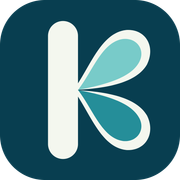
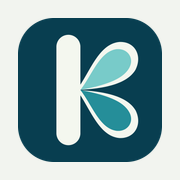
feat(web): harden PWA offline support, rebased onto master role routes
Rebase pwa-offline-hardening onto origin/master (PR #64 role-split PWA)
and resolve the manifest/layout/icon conflicts per category:

- UI kept from master: shared <Nav />, BaseLayout showNav + manifestPath
  props, per-role pages (/patient, /bhw) and their per-role manifests,
  Kasigla branding, and the mobile-web-app-capable meta.
- PWA kept/hardened from this branch: inline service-worker registration
  of /offline-worker.js (replacing master's register-sw.ts -> /sw.js),
  the hardened install crawl + runtime fetch strategy, /api bypass,
  offline.html fallback, and apple-touch-icon.
- Service worker (offline-worker.js) bumped to alaga-shell-v3 and its
  install crawl generalized from the single "/" route to all six real
  routes (/, /choose, /patient, /bhw, /about, /offline) using the same
  attribute regex + cacheAsset logic, so the HealthHub island on the
  role routes precaches its hydration chunks and works on a cold offline
  load. Seed list now covers the three manifests, all icons, apple-touch
  and offline fallback. Dead /page route removed.
- Icon set reconciled to one coherent set: kept this branch's hardened
  icon contents under master's filenames (icon-192, icon-512,
  maskable-512); removed the orphan icon-maskable-512.png and updated the
  default manifest src to /icons/maskable-512.png so every manifest
  (default + per-role) resolves to a real file.
- Removed now-unused public/sw.js and src/scripts/register-sw.ts so there
[…]

diff --git a/apps/web/public/offline-worker.js b/apps/web/public/offline-worker.js
@@ -1,15 +1,34 @@
-const CACHE_NAME = 'alaga-shell-v1';
+const CACHE_NAME = 'alaga-shell-v3';
+
+// Document routes that must survive a first-ever offline navigation. Each is
+// crawled at install time (same as the root) so its hashed /_astro/* chunks and
+// hydrated island JS are precached — not just the shell markup. The static
+// routes (/ and /offline) carry no island; the role routes (/choose, /patient,
+// /bhw) each mount the HealthHub island, so crawling them is what lets them
+// actually hydrate offline rather than render a dead shell.
+const ROUTES = ['/', '/choose', '/patient', '/bhw', '/about', '/offline'];
+
+// Routes and assets seeded directly into the cache on install. Each entry
+// tolerates individual fetch failure, so a missing asset never breaks install.
+const PRECACHE_URLS = [
+  ...ROUTES,
+  '/offline.html',
+  '/manifest.webmanifest',
+  '/manifest-patient.webmanifest',
+  '/manifest-bhw.webmanifest',
+  '/icons/icon-192.png',
+  '/icons/icon-512.png',
+  '/icons/maskable-512.png',
+  '/apple-touch-icon.png',
+  '/kasigla-logo.png',
+];
 
 self.addEventListener('install', event => {
   event.waitUntil((async () => {
     const cache = await caches.open(CACHE_NAME);
-    const response = await fetch('/');
-    await cache.put('/', response.clone());
-    const html = await response.text();
-    const assets = [...html.matchAll(/(?:src|href)=["']([^"']+)["']/g)]
-      .map(([, path]) => new URL(path, self.location.origin).href)
-      .filter(url => new URL(url).origin === self.location.origin);
+
     const visited = new Set();
+    const sameOrigin = href => new URL(href).origin === self.location.origin;
 
     const cacheAsset = async url => {
       if (visited.has(url)) return;
@@ -19,19 +38,59 @@ self.addEventListener('install', event => {
         if (!asset.ok) return;
         await cache.put(url, asset.clone());
         if (/\.m?js(?:$|\?)/.test(url)) {
+          // Follow ESM imports so transitively-loaded chunks are cached too.
           const source = await asset.text();
           const imports = [...source.matchAll(/(?:from\s*|import\s*\(\s*)["']([^"']+)["']/g)]
-            .map(([, path]) => new URL(path, url))
-            .filter(importUrl => importUrl.origin === self.location.origin)
-            .map(importUrl => importUrl.href);
+            .map(([, path]) => new URL(path, url).href)
+            .filter(sameOrigin);
           await Promise.all(imports.map(cacheAsset));
+        } else if (/\.css(?:$|\?)/.test(url)) {
+          // Follow url(...) references in CSS (e.g. @font-face woff2 files) so
+          // fonts are available offline instead of failing to load.
+          const source = await asset.text();
+          const refs = [...source.matchAll(/url\(\s*["']?([^"')]+)["']?\s*\)/g)]
+            .map(([, path]) => path.trim())
+            .filter(path => path && !path.startsWith('data:'))
+            .map(path => new URL(path, url).href)
+            .filter(sameOrigin);
+          await Promise.all(refs.map(cacheAsset));
         }
       } catch {
         // A secondary asset can retry through the runtime cache on next use.
       }
     };
 
-    await Promise.all(assets.map(cacheAsset));
+    // Seed the known precache list first so core routes/icons/manifest are always
+    // present. Each entry tolerates individual failure (same as crawled assets).
+    await Promise.all(PRECACHE_URLS.map(path => {
+      const url = new URL(path, self.location.origin).href;
+      return cacheAsset(url);
+    }));
+
+    // Then crawl each document route to pick up the hashed /_astro/* chunks it
+    // links. The role routes (/choose, /patient, /bhw) each mount the HealthHub
+    // island, so crawling them precaches their hydration JS — without this they
+    // would render a dead shell on a cold offline load. Each route is crawled
+    // independently and tolerates failure, same resilience as the seed list.
+    const crawlRoute = async route => {
+      try {
+        const url = new URL(route, self.location.origin).href;
+        const response = await fetch(url);
+        if (!response.ok) return;
+        await cache.put(url, response.clone());
+        const html = await response.text();
+        // Capture classic asset attributes (src/href) AND Astro island hydration
+        // attributes (component-url/renderer-url) so the React island's JS chunks
+        // are precached — without them the app cannot hydrate offline.
+        const assets = [...html.matchAll(/(?:src|href|component-url|renderer-url)=["']([^"']+)["']/g)]
+          .map(([, path]) => new URL(path, self.location.origin).href)
+          .filter(sameOrigin);
+        await Promise.all(assets.map(cacheAsset));
+      } catch {
+        // Precache list above still covers this route's shell if the crawl fails.
+      }
+    };
+    await Promise.all(ROUTES.map(crawlRoute));
   })());
   self.skipWaiting();
 });
@@ -46,24 +105,43 @@ self.addEventListener('fetch', event => {
   const url = new URL(request.url);
   if (request.method !== 'GET' || url.origin !== self.location.origin) return;
 
+  // Never cache or serve /api/* from the cache: clinical data must always come
+  // from the network and is allowed to fail when offline, so the app can never
+  // show stale readings. Let these requests pass straight through to the network.
+  if (url.pathname.startsWith('/api/')) return;
+
   if (request.mode === 'navigate') {
     event.respondWith((async () => {
       try {
         const response = await fetch(request);
-        if (response.ok) await caches.open(CACHE_NAME).then(cache => cache.put('/', response.clone()));
+        if (response.ok) {
+          try { await caches.open(CACHE_NAME).then(cache => cache.put('/', response.clone())); } catch { /* cache write is best-effort */ }
+        }
         return response;
       } catch {
-        return (await caches.match(request)) || caches.match('/');
+        // Offline: prefer the exact cached document, then the cached shell at /,
+        // then the static offline fallback. Guard so a cache miss never throws.
+        return (await caches.match(request))
+          || (await caches.match('/'))
+          || (await caches.match('/offline.html'))
+          || Response.error();
       }
     })());
     return;
   }
 
   event.respondWith((async () => {
-    const cached = await caches.match(request);
-    if (cached) return cached;
-    const response = await fetch(request);
-    if (response.ok) await caches.open(CACHE_NAME).then(cache => cache.put(request, response.clone()));
-    return response;
+    try {
+      const cached = await caches.match(request);
+      if (cached) return cached;
+      const response = await fetch(request);
+      if (response.ok) {
+        try { await caches.open(CACHE_NAME).then(cache => cache.put(request, response.clone())); } catch { /* cache write is best-effort */ }
+      }
+      return response;
+    } catch {
+      // Guard: a cache miss plus a network failure must resolve, not throw.
+      return (await caches.match(request)) || Response.error();
+    }
   })());
 });

diff --git a/apps/web/public/offline.html b/apps/web/public/offline.html
@@ -1,0 +1,68 @@
+<!doctype html>
+<html lang="en">
+  <head>
+    <meta charset="UTF-8" />
+    <meta name="viewport" content="width=device-width, initial-scale=1, viewport-fit=cover" />
+    <meta name="theme-color" content="#f8f9f5" />
+    <title>Alaga · Offline</title>
+    <style>
+      :root { color-scheme: light; }
+      * { box-sizing: border-box; }
+      body {
+        margin: 0;
+        min-height: 100vh;
+        display: grid;
+        place-items: center;
+        padding: 1.5rem;
+        background: #f2f4ef;
+        color: #202522;
+        font-family: system-ui, -apple-system, "Segoe UI", Roboto, Helvetica, Arial, sans-serif;
+        line-height: 1.6;
+      }
+      main {
+        max-width: 32rem;
+        width: 100%;
+        background: #ffffff;
+        border-radius: 28px;
+        padding: 2rem 1.75rem;
+        text-align: left;
+      }
+      .badge {
+        display: inline-flex;
+        align-items: center;
+        gap: 0.5rem;
+        border-radius: 9999px;
+        background: #e4f1e9;
+        color: #315b49;
+        font-size: 0.8125rem;
+        font-weight: 600;
+        padding: 0.5rem 1rem;
+        margin-bottom: 1.25rem;
+      }
+      .dot { width: 0.5rem; height: 0.5rem; border-radius: 9999px; background: #3d806d; }
+      h1 { margin: 0 0 0.5rem; font-size: 1.6rem; font-weight: 600; letter-spacing: -0.01em; color: #243e35; }
+      p { margin: 0 0 1rem; color: #525f55; font-size: 1rem; }
+      p:last-of-type { margin-bottom: 0; }
+      a.button {
+        display: inline-block;
+        margin-top: 1.5rem;
+        border-radius: 9999px;
+        background: #366b60;
+        color: #ffffff;
+        text-decoration: none;
+        font-weight: 600;
+        padding: 0.85rem 1.5rem;
+      }
+      a.button:hover { background: #28594f; }
+    </style>
+  </head>
+  <body>
+    <main>
+      <span class="badge"><span class="dot"></span>Offline</span>
+      <h1>You are offline right now</h1>
+      <p>Alaga could not load this page because the device has no connection. Your saved records are not lost.</p>
+      <p>Every reading you have entered stays on this device. Once you are back online, open Alaga again and your records will still be here.</p>
+      <a class="button" href="/">Try again</a>
+    </main>
+  </body>
+</html>
